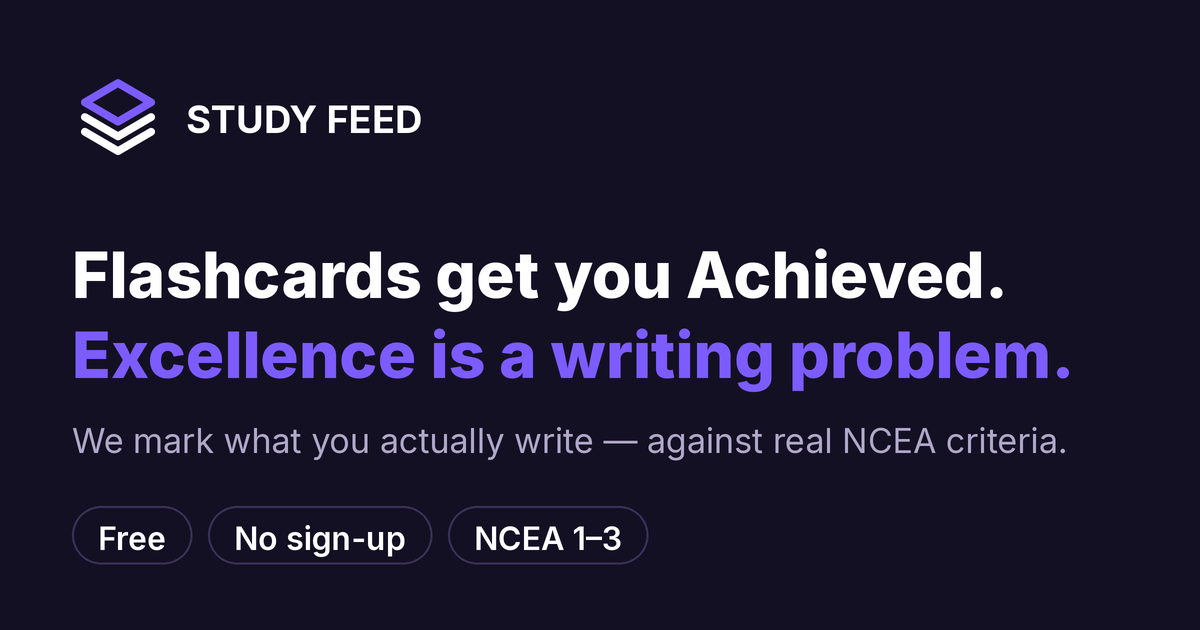
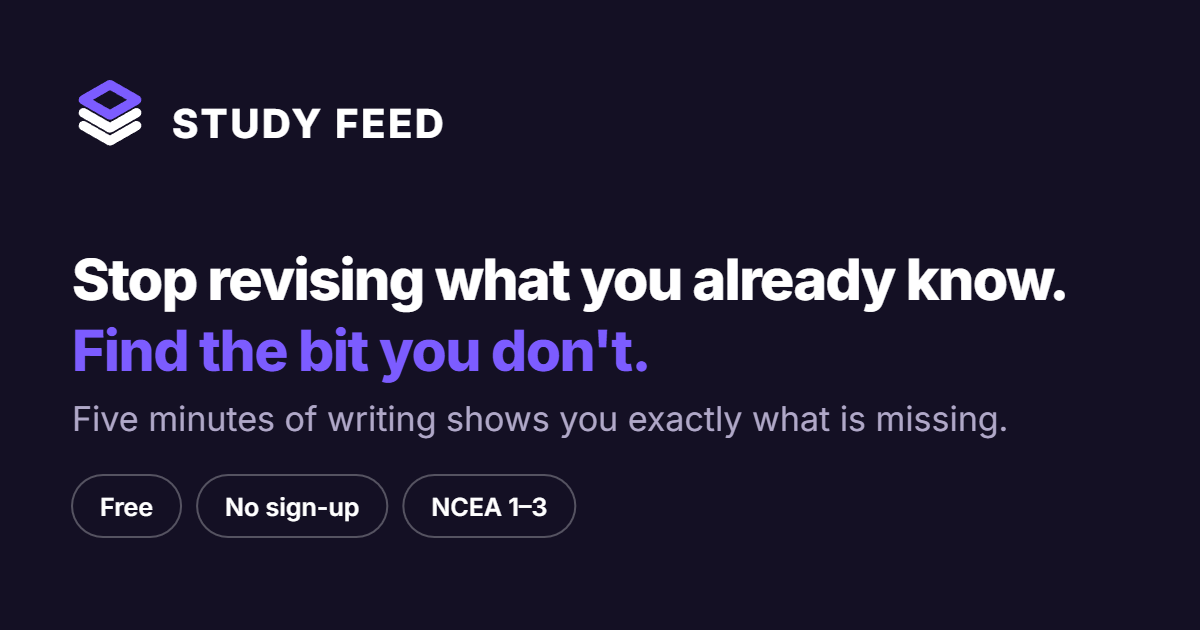
Redraw the share card so link previews match the page
The og:image was the one thing the pitch rewrite left contradicting itself:
every preview in a group chat still read "Flashcards get you Achieved.
Excellence is a writing problem." while the page it linked to said something
else. Chat previews are the whole distribution plan for this app, so that is
the first thing most people would have seen.

It is redrawn on the SAME template rather than redesigned — near-black
ground, mark at the 12.5 stroke weight with the top layer violet and never
filled, wordmark, two-line headline with the second line in the accent, one
muted sub, and the standard Free / No sign-up / NCEA 1-3 chip row. Only the
words changed, which is why this is a retypeset of an existing brand asset
and not a new one.

brand/make-og.html is the generator, committed so the card can be remade
rather than being a one-off nobody can reproduce. It runs in a browser
because the card is set in Inter and nothing in this repo can rasterise a
font — make-maskable.mjs gets away with pure zlib only because it rescales
pixels it already has. The headline size auto-fits the content width, so
changing the copy cannot silently clip it.

Both copies move together: docs/og-image.png is what gets served and
brand/social/og-image.png is the master.

NOT fixed by this commit, because it cannot be: replacing the file does not
refresh anyone's cached preview. iMessage, WhatsApp and the rest hold the
old card for days and need a re-scrape through Facebook's Sharing Debugger,
[…]

Changed region(s): [[0.0617, 0.3921, 0.8942, 0.7238], [0.0617, 0.754, 0.5242, 0.9048], [0.0617, 0.1206, 0.37, 0.2413]]

diff --git a/brand/make-og.html b/brand/make-og.html
@@ -1,0 +1,161 @@
+<!doctype html>
+<html lang="en">
+<head>
+<meta charset="utf-8" />
+<title>Study Feed — og:image generator</title>
+<!--
+  Redraws docs/og-image.png (1200x630) to the SAME template as the one shipped
+  on 5 Aug 2026 — near-black ground, mark plus wordmark top left, a two-line
+  headline with the second line in the accent, one muted sub, and the standard
+  chip row. Only the words change. This is not a new brand asset; it is the
+  existing one re-typeset, which is why the geometry and palette below are
+  copied from CLAUDE.md rather than chosen here.
+
+  Why a browser and not a Node script: the card is typeset in Inter, and there
+  is no font rasteriser in this repo's dependencies (make-maskable.mjs gets away
+  with pure zlib because it only rescales pixels). Canvas has one.
+
+  Run: serve the repo and open this file, or open it directly from disk — then
+  click Download and replace docs/og-image.png and brand/social/og-image.png.
+
+  After replacing it, the preview stays cached in iMessage, WhatsApp and every
+  chat app for days. Force a re-scrape with Facebook's Sharing Debugger.
+-->
+<link rel="preconnect" href="https://fonts.googleapis.com" />
+<link rel="preconnect" href="https://fonts.gstatic.com" crossorigin />
+<link rel="stylesheet" href="https://fonts.googleapis.com/css2?family=Inter:wght@400;600;700;800&display=swap" />
+<style>
+  body{ margin:0; padding:28px; background:#0d0b16; color:#EDEAF6;
+    font:15px/1.5 "Inter", system-ui, sans-serif; }
+  canvas{ width:100%; max-width:900px; height:auto; border-radius:10px; display:block; }
+  button{ margin-top:16px; font:inherit; font-weight:700; padding:11px 18px; border-radius:999px;
+    border:none; background:#7C5CFF; color:#fff; cursor:pointer; }
+  p{ max-width:900px; color:#B0A8C8; }
+</style>
+</head>
+<body>
+<canvas id="c" width="1200" height="630"></canvas>
+<button id="dl">Download og-image.png</button>
+<p>1200×630. Replace <code>docs/og-image.png</code> and <code>brand/social/og-image.png</code>,
+then force a re-scrape or the old preview stays cached for days.</p>
+
+<script>
+/* ---- the kit, verbatim from CLAUDE.md ---------------------------------- */
+var GROUND = '#141024', WHITE = '#FFFFFF', ACCENT = '#7C5CFF', MUTED = '#B0A8C8';
+var W = 1200, H = 630, PAD = 72;
+
+/* ---- the copy — the only part that changes ----------------------------- */
+var LINE1 = 'Stop revising what you already know.';
+var LINE2 = "Find the bit you don't.";
+var SUB   = 'Five minutes of writing shows you exactly what is missing.';
+var CHIPS = ['Free', 'No sign-up', 'NCEA 1–3'];
+
+/* The mark: brand/svg/mark-small-on-dark.svg, 100x100, 12.5 strokes, round
+   caps and joins. Top layer violet and NEVER filled; the lower two are white
+   on this ground. */
+function drawMark(ctx, x, y, size){
+  var s = size / 100;
+  ctx.save();
+  ctx.translate(x, y); ctx.scale(s, s);
+  ctx.lineWidth = 12.5; ctx.lineCap = 'round'; ctx.lineJoin = 'round';
+  ctx.strokeStyle = ACCENT;
+  ctx.beginPath();
+  ctx.moveTo(50, 14); ctx.lineTo(85, 34); ctx.lineTo(50, 54); ctx.lineTo(15, 34); ctx.closePath();
+  ctx.stroke();
+  ctx.strokeStyle = WHITE;
+  ctx.beginPath(); ctx.moveTo(15, 51); ctx.lineTo(50, 71); ctx.lineTo(85, 51); ctx.stroke();
+  ctx.beginPath(); ctx.moveTo(15, 68); ctx.lineTo(50, 88); ctx.lineTo(85, 68); ctx.stroke();
+  ctx.restore();
+}
+
+/* Shrink until the longest line fits the content width. The headline is the
+   one thing that must never be clipped, and copy changes length. */
+function fitSize(ctx, lines, weight, start, min, maxW){
+  for (var px = start; px >= min; px -= 1){
+    ctx.font = weight + ' ' + px + 'px Inter, system-ui, sans-serif';
+    var ok = true;
+    for (var i = 0; i < lines.length; i++){
+      if (ctx.measureText(lines[i]).width > maxW){ ok = false; break; }
+    }
+    if (ok) return px;
+  }
+  return min;
+}
+
+function roundRect(ctx, x, y, w, h, r){
+  ctx.beginPath();
+  ctx.moveTo(x + r, y);
+  ctx.arcTo(x + w, y, x + w, y + h, r);
+  ctx.arcTo(x + w, y + h, x, y + h, r);
+  ctx.arcTo(x, y + h, x, y, r);
+  ctx.arcTo(x, y, x + w, y, r);
+  ctx.closePath();
+}
+
+function draw(){
+  var ctx = document.getElementById('c').getContext('2d');
+  ctx.fillStyle = GROUND; ctx.fillRect(0, 0, W, H);
+  ctx.textBaseline = 'alphabetic';
+
+  /* masthead */
+  drawMark(ctx, PAD, 74, 76);
+  ctx.fillStyle = WHITE;
+  ctx.font = '800 40px Inter, system-ui, sans-serif';
+  try { ctx.letterSpacing = '2.5px'; } catch (e){}
+  ctx.fillText('STUDY FEED', PAD + 100, 138);
+  try { ctx.letterSpacing = '0px'; } catch (e){}
+
+  /* headline — two lines, the second in the accent */
+  var maxW = W - PAD * 2;
+  var hs = fitSize(ctx, [LINE1, LINE2], '800', 66, 40, maxW);
+  ctx.font = '800 ' + hs + 'px Inter, system-ui, sans-serif';
+  try { ctx.letterSpacing = '-1.5px'; } catch (e){}
+  var lh = Math.round(hs * 1.24);
+  var top = 300;
+  ctx.fillStyle = WHITE;  ctx.fillText(LINE1, PAD, top);
+  ctx.fillStyle = ACCENT; ctx.fillText(LINE2, PAD, top + lh);
+  try { ctx.letterSpacing = '0px'; } catch (e){}
+
+  /* sub */
+  var ss = fitSize(ctx, [SUB], '400', 34, 22, maxW);
+  ctx.font = '400 ' + ss + 'px Inter, system-ui, sans-serif';
+  ctx.fillStyle = MUTED;
+  var subY = top + lh + Math.round(hs * 1.05);
+  ctx.fillText(SUB, PAD, subY);
+
+  /* chip row — outlined pills, the standard three */
+  var chipY = subY + 44, cx = PAD, ch = 62;
+  ctx.font = '600 25px Inter, system-ui, sans-serif';
+  for (var i = 0; i < CHIPS.length; i++){
+    var tw = ctx.measureText(CHIPS[i]).width, cw = tw + 56;
+    ctx.strokeStyle = 'rgba(255,255,255,0.28)'; ctx.lineWidth = 2;
+    roundRect(ctx, cx, chipY, cw, ch, ch / 2); ctx.stroke();
+    ctx.fillStyle = WHITE;
+    ctx.fillText(CHIPS[i], cx + 28, chipY + 41);
+    cx += cw + 16;
+  }
+}
+
+/* Inter has to be loaded before anything is measured, or the fit runs against
+   the fallback and the headline comes out the wrong size. */
+function go(){
+  var want = ['800 66px Inter', '600 25px Inter', '400 34px Inter', '800 40px Inter'];
+  if (!document.fonts){ draw(); return; }
+  Promise.all(want.map(function(f){ return document.fonts.load(f); }))
+    .then(function(){ return document.fonts.ready; })
+    .then(draw, draw);
+}
+go();
+
+document.getElementById('dl').onclick = function(){
+  var a = document.createElement('a');
+  a.download = 'og-image.png';
+  a.href = document.getElementById('c').toDataURL('image/png');
+  a.click();
+};
+
+/* Used by the build tooling to lift the bytes out without a download. */
+window.__ogPng = function(){ return document.getElementById('c').toDataURL('image/png'); };
+</script>
+</body>
+</html>

diff --git a/docs/index.html b/docs/index.html
@@ -23,11 +23,7 @@
 <meta property="og:image" content="https://studyfeed.app/og-image.png" />
 <meta property="og:image:width" content="1200" />
 <meta property="og:image:height" content="630" />
-<!-- The alt describes og-image.png, which is a drawn brand asset and still
-     carries the previous headline. Keeping the alt honest about what the
-     picture actually says; the image itself needs redrawing to match the new
-     pitch — see brand/social/og-image.png. -->
-<meta property="og:image:alt" content="Study Feed — flashcards get you Achieved. Excellence is a writing problem." />
+<meta property="og:image:alt" content="Study Feed — stop revising what you already know. Find the bit you don't." />
 <meta name="twitter:card" content="summary_large_image" />
 <meta name="twitter:image" content="https://studyfeed.app/og-image.png" />
 

diff --git a/README.md b/README.md
@@ -68,9 +68,13 @@ link: `/app/#gaps` opens the diagnostic and `/app/#ideas` opens the feature
 form, both read once on load and then cleared from the URL. TikTok and Instagram
 (@studyfeednz) are linked from the footer and from the app's You tab.
 
-**Known gap:** `og-image.png` is a drawn asset and still carries the old headline,
-so link previews are off-message until it is redrawn. It is a brand asset rather
-than generated code — see `brand/social/`.
+`og-image.png` is redrawn to match, by `brand/make-og.html` — a canvas that
+retypesets the SAME template (ground, mark, wordmark, two-line headline with the
+second line in the accent, standard chip row) so the card cannot drift from the
+kit. It runs in a browser rather than Node because the card is set in Inter and
+nothing in this repo can rasterise a font; canvas can. **Replacing the file does
+not refresh anyone's cached preview** — force a re-scrape with Facebook's Sharing
+Debugger, or iMessage, WhatsApp and the rest keep showing the old card for days.
 
 Everything on it that starts hidden (`.rise`, `.reveal`) has a failsafe: if the
 IntersectionObserver hasn't reported within two seconds the page reveals

diff --git a/CLAUDE.md b/CLAUDE.md
@@ -127,6 +127,13 @@ Output Directory is `docs`, so files there are what get served from `/`. Then ad
 <meta name="twitter:image" content="https://studyfeed.app/og-image.png">
 ```
 
+**The og:image is generated, not hand-drawn.** `brand/make-og.html` retypesets the
+card from the values in this file — near-black ground, the mark at the 12.5 stroke
+weight, a two-line headline with the second line in the accent, one muted sub, and the
+standard chip row. Change the copy at the top of that file, open it, download, and
+replace both `docs/og-image.png` and `brand/social/og-image.png`. It runs in a browser
+because the card is set in Inter and nothing here can rasterise a font.
+
 **The og:image URL must be absolute.** Relative paths silently fail in iMessage, WhatsApp,
 Instagram DMs and most chat apps — and link previews in group chats are load-bearing for
 how this app spreads. After deploying, force a re-scrape with Facebook's Sharing Debugger

diff --git a/brand/BRAND.md b/brand/BRAND.md
@@ -126,6 +126,13 @@ Copy everything in `public/` into the project's `public/` directory, then add to
 <meta name="twitter:image" content="https://studyfeed.app/og-image.png">
 ```
 
+**The og:image is generated, not hand-drawn.** `brand/make-og.html` retypesets the
+card from the values in this file — near-black ground, the mark at the 12.5 stroke
+weight, a two-line headline with the second line in the accent, one muted sub, and the
+standard chip row. Change the copy at the top of that file, open it, download, and
+replace both `docs/og-image.png` and `brand/social/og-image.png`. It runs in a browser
+because the card is set in Inter and nothing here can rasterise a font.
+
 **The og:image URL must be absolute.** Relative paths silently fail in iMessage, WhatsApp,
 Instagram DMs and most chat apps — and link previews in group chats are load-bearing for
 how this app spreads. After deploying, force a re-scrape with Facebook's Sharing Debugger
